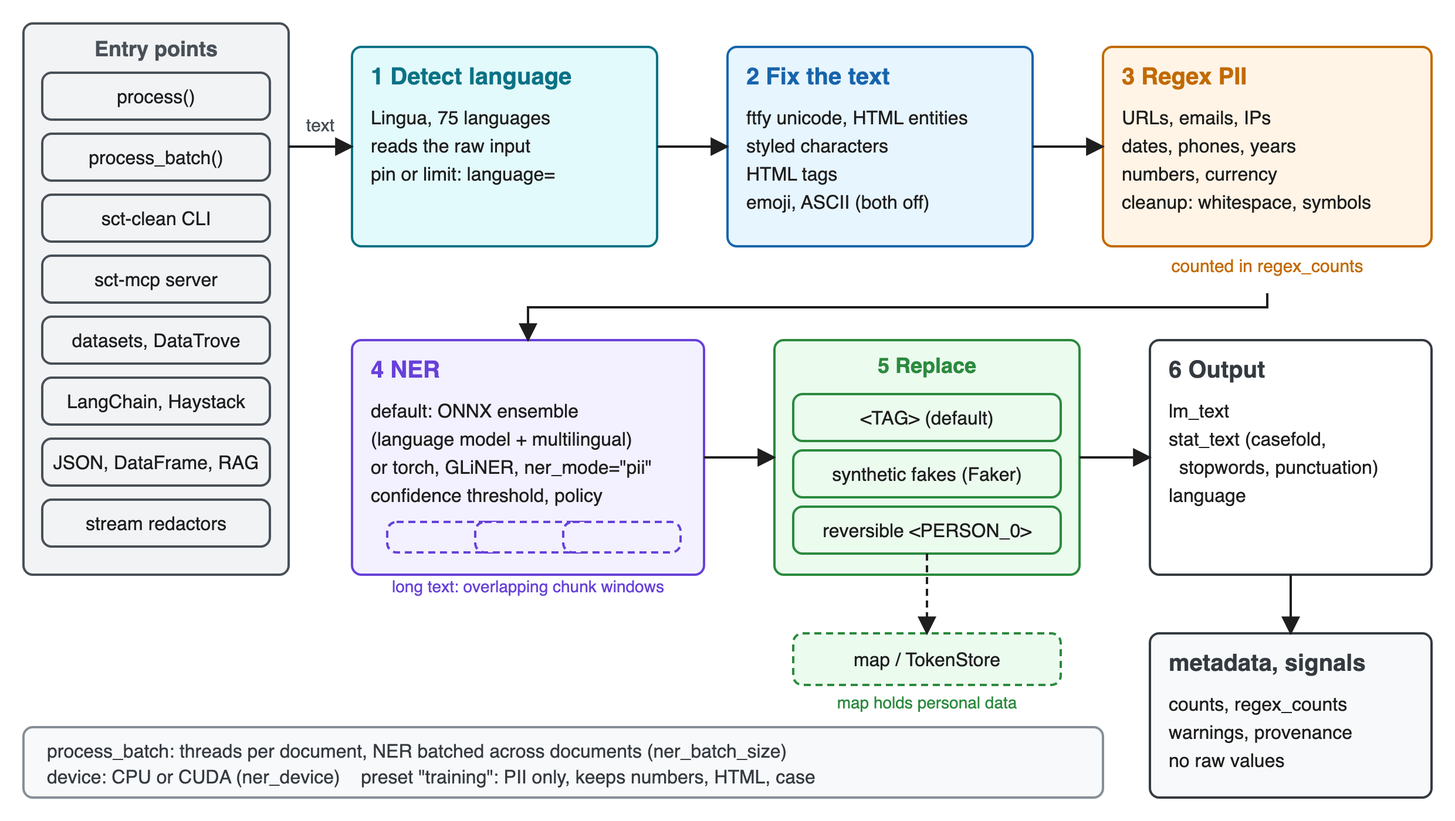
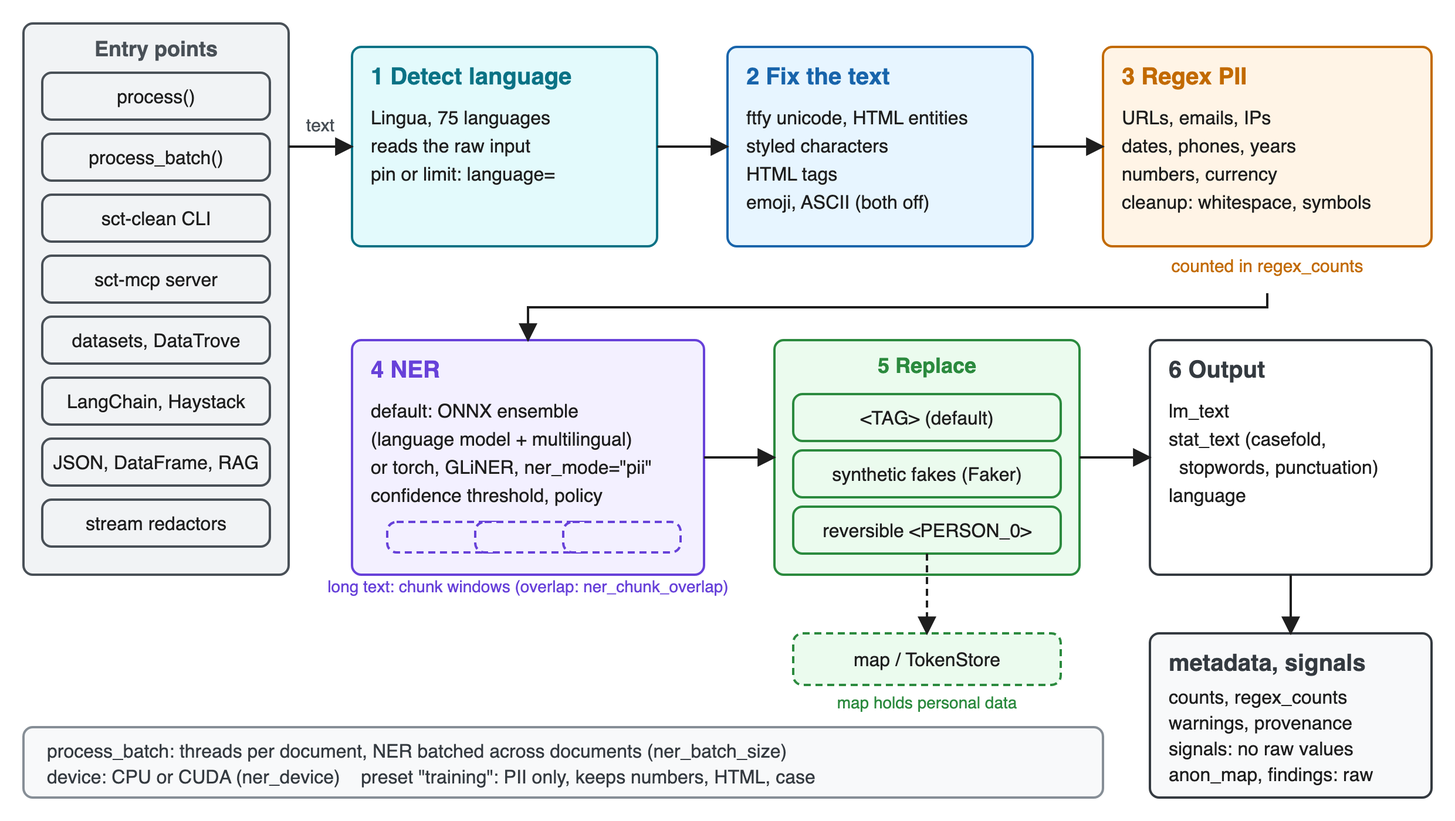
Fix README and docs claims from review round 1: metadata raw values, gliner_model in recipe, full ner_models dicts, custom step order, dead stopword toggle, language None, currency codes, chunk overlap, model loading, GLiNER2 attribution, PII model architecture, date limits, URL and streaming limits

Changed region(s): [[0.8073, 0.8293, 0.9315, 0.9521], [0.2173, 0.7064, 0.4968, 0.7371]]

diff --git a/sct/sct.py b/sct/sct.py
@@ -262,7 +262,7 @@ class TextCleaner:
         # Deferred values stay hidden through the cleanup above, so a tag it would remove
         # ("[EMAIL]" under bracket removal) still carries its value to the swap after NER.
         self._post_fuzzy_pipeline.append(self._restore_deferred)
-        # User-provided custom steps — appended after all built-in steps
+        # User-provided custom steps: after the built-in pre-NER steps, before NER and _after_ner
         for step_fn in cfg.custom_pipeline_steps:
             self._post_fuzzy_pipeline.append(step_fn)
 

diff --git a/sct/config.py b/sct/config.py
@@ -285,7 +285,7 @@ class TextCleanerConfig:
     gliclass_onnx: bool = False
 
     # Plugin: user-provided pipeline steps, each callable (text: str) -> str.
-    # Appended after all built-in steps in _init_pipeline().
+    # Appended to the pre-NER pipeline in _init_pipeline(), so they run before NER.
     custom_pipeline_steps: Tuple = ()
 
     # Language extensibility — extend Lingua detection, stopwords, dates, NER

diff --git a/docs/ADDING_LANGUAGES.md b/docs/ADDING_LANGUAGES.md
@@ -19,7 +19,7 @@ Each subsystem can be extended independently. A language doesn't need support in
 
 - **PII mode** (`ner_mode='pii'`) applies to all supported languages — PII labels are language-agnostic
 - **Replacement modes** (`replacement_mode='placeholder'|'synthetic'|'reversible'`) work for all languages
-- **ModernBERT** is available as an alternative English-only backend with 8192-token context (vs 512 for XLM-RoBERTa). Set via `ner_models={'ENGLISH': 'rhnfzl/modernbert-base-ner-conll03-english-onnx'}` once exported
+- **ModernBERT** is available as an alternative English-only backend with 8192-token context (vs 512 for XLM-RoBERTa). Set via `ner_models={**DEFAULT_NER_MODELS, 'ENGLISH': 'rhnfzl/modernbert-base-ner-conll03-english-onnx'}` once exported (the dict must name `ENGLISH` and `MULTILINGUAL`)
 - **GLiClass** document classification is language-independent (zero-shot, works with any input language)
 
 ---
@@ -93,7 +93,7 @@ result = cleaner.process("Spotkanie z Janem Kowalskim 15 styczen 2025 w Warszawi
 
 ### What each field does
 
-**`extra_languages`**: Tuple of language identifiers (e.g. `'POLISH'`, `'pl'`, `'pol'`). Accepts Lingua names, ISO 639-1, or ISO 639-3 codes. This extends the Lingua detector to consider these languages during auto-detection.
+**`extra_languages`**: Tuple of language identifiers (e.g. `'POLISH'`, `'pl'`, `'pol'`). Accepts Lingua names, ISO 639-1, or ISO 639-3 codes. They join `supported_languages`, which sets the stopword lists loaded up front and the languages `warmup()` loads. With the default `detect_all_languages=True`, Lingua already considers all 75 languages, so the detector does not change. Only with `detect_all_languages=False` does `extra_languages` add these languages to the detector.
 
 **`custom_stopwords`**: Dict mapping language name to frozenset of stopwords. If provided for a language, **replaces** (not merges with) any auto-detected stopwords. If not provided, the `stop-words` package is queried using the language's ISO 639-1 code.
 
@@ -152,10 +152,10 @@ There are two tiers of built-in support:
 
 | Tier | What it means | Steps required |
 |------|--------------|----------------|
-| **Opt-in** | Users enable via `extra_languages=('FRENCH',)` | Steps 1, 3 (NER only), 7 |
-| **Full default** | Language auto-detected for all users by default | Steps 1, 2, 3, 7 |
+| **Opt-in** | Detected by default (all 75 Lingua languages); users add it to the `detect_all_languages=False` detector via `extra_languages=('FRENCH',)` | Steps 1, 3 (NER only), 7 |
+| **Full default** | In `DEFAULT_LANGUAGES`, so also in the `detect_all_languages=False` detector | Steps 1, 2, 3, 7 |
 
-**FR/PT/IT were added as opt-in (v0.5.0)**: users set `extra_languages=('FRENCH',)` etc. — no changes to `resources.py` `DEFAULT_LANGUAGES` required. `build_detector()` is already fully dynamic and handles any Lingua language name.
+With the default `detect_all_languages=True`, every Lingua language is detected, so FR/PT/IT and Polish need no setting. The tiers only differ when a user sets `detect_all_languages=False`: then only `supported_languages` are detected, and an opt-in language needs `extra_languages=('FRENCH',)`. `build_detector()` handles any Lingua language name.
 
 To permanently add a new language (e.g. French) to the package defaults, follow these steps in dependency order.
 
@@ -210,7 +210,7 @@ The module-level `DATE_REGEX`, `FUZZY_MONTH_VOCABULARY`, and `FUZZY_MONTH_VOCABU
 
 ### Step 2: `sct/utils/resources.py` — Update default languages (full-default tier only)
 
-> **Skip this step for opt-in languages** — `build_detector()` dynamically handles any language in `supported_languages`. Only needed to add the language to the *automatic* detection set for all users.
+> **Skip this step for opt-in languages** — `build_detector()` dynamically handles any language in `supported_languages`. Only needed to add the language to the detector used with `detect_all_languages=False`; the default detector already covers all 75 Lingua languages.
 
 Add the language to `LANGUAGES` (module-level Lingua preset) and `DEFAULT_LANGUAGES`:
 
@@ -429,7 +429,7 @@ The ONNX pipeline (`sct/utils/onnx_pipeline.py`) handles download, caching, and 
 
 ## Language Support Matrix
 
-Current built-in support (v0.5.0+):
+Current built-in support (0.8.0). "Yes (auto)" means detected with the default `detect_all_languages=True`; the last column is only needed with `detect_all_languages=False`:
 
 | Language | Lingua (default) | Stopwords | Date Regex | Fuzzy Dates | NER Model | Opt-in via |
 |----------|-----------------|-----------|------------|-------------|-----------|------------|
@@ -437,29 +437,29 @@ Current built-in support (v0.5.0+):
 | Dutch | Yes (auto) | Yes | Yes | Yes | `rhnfzl/xlm-roberta-large-conll02-dutch-onnx` | — |
 | German | Yes (auto) | Yes | Yes | Yes | `rhnfzl/xlm-roberta-large-conll03-german-onnx` | — |
 | Spanish | Yes (auto) | Yes | Yes | Yes | `rhnfzl/xlm-roberta-large-conll02-spanish-onnx` | — |
-| French | No | Yes (stop-words) | Yes | Yes | `rhnfzl/wikineural-multilingual-ner-onnx` (multilingual) | `extra_languages=('FRENCH',)` |
-| Portuguese | No | Yes (stop-words) | Yes | Yes | `rhnfzl/wikineural-multilingual-ner-onnx` (multilingual) | `extra_languages=('PORTUGUESE',)` |
-| Italian | No | Yes (stop-words) | Yes | Yes | `rhnfzl/wikineural-multilingual-ner-onnx` (multilingual) | `extra_languages=('ITALIAN',)` |
+| French | Yes (auto) | Yes (stop-words) | Yes | Yes | `rhnfzl/wikineural-multilingual-ner-onnx` (multilingual) | `extra_languages=('FRENCH',)` |
+| Portuguese | Yes (auto) | Yes (stop-words) | Yes | Yes | `rhnfzl/wikineural-multilingual-ner-onnx` (multilingual) | `extra_languages=('PORTUGUESE',)` |
+| Italian | Yes (auto) | Yes (stop-words) | Yes | Yes | `rhnfzl/wikineural-multilingual-ner-onnx` (multilingual) | `extra_languages=('ITALIAN',)` |
 
 User-extensible via `TextCleanerConfig` (no source changes needed):
 
 | Feature | How to enable | Auto-detected? |
 |---------|--------------|----------------|
-| Lingua detection | `extra_languages=('POLISH',)` | N/A |
+| Lingua detection | Default (all 75 languages); with `detect_all_languages=False`, `extra_languages=('POLISH',)` | Yes |
 | Stopwords | Auto from `stop-words` pkg | Yes (33 languages) |
 | Custom stopwords | `custom_stopwords={'POLISH': frozenset({...})}` | No |
 | Date regex | `custom_month_names={'POLISH': (...)}` | No |
-| NER model | `ner_models={'POLISH': 'model-id'}` | Falls back to MULTILINGUAL |
+| NER model | `ner_models={**DEFAULT_NER_MODELS, 'POLISH': 'model-id'}` | Falls back to MULTILINGUAL |
 
 ### Languages supported by the `stop-words` package
 
-Arabic, Bulgarian, Catalan, Czech, Danish, Dutch, English, Finnish, French, German, Greek, Hindi, Hungarian, Indonesian, Irish, Italian, Japanese, Korean, Lithuanian, Latvian, Norwegian, Persian, Polish, Portuguese, Romanian, Russian, Slovak, Slovenian, Spanish, Swedish, Thai, Turkish, Ukrainian.
+Arabic, Bulgarian, Catalan, Chinese, Czech, Danish, Dutch, English, Finnish, French, German, Greek, Gujarati, Hebrew, Hindi, Hungarian, Indonesian, Italian, Japanese, Korean, Malay, Norwegian, Persian, Polish, Portuguese, Romanian, Russian, Slovak, Spanish, Swedish, Turkish, Ukrainian, Vietnamese (33, from the package's `languages.json`).
 
 ---
 
 ## Checklist for Adding a New Built-In Language
 
-### Opt-in tier (users activate via `extra_languages`)
+### Opt-in tier (auto-detected by default; `extra_languages` only for `detect_all_languages=False`)
 - [ ] Add month names to `MONTH_NAMES_MULTILINGUAL` in `constants.py` (check for shared names!)
 - [ ] Add ISO code to `_LANG_TO_VOCAB` in `constants.py`
 - [ ] Add to `DEFAULT_NER_MODELS` (dedicated ONNX model or MULTILINGUAL fallback) in `config.py`
@@ -473,9 +473,9 @@ Arabic, Bulgarian, Catalan, Czech, Danish, Dutch, English, Finnish, French, Germ
 - [ ] (Optional) Add NER tests if dedicated model added
 - [ ] Verify: `ruff check sct/ tests/` clean
 - [ ] Verify: `pytest tests/ -v` all pass
-- [ ] Bump version in `pyproject.toml`
+- [ ] Bump `__version__` in `sct/__init__.py` (`pyproject.toml` reads it)
 
-### Full-default tier (language auto-detected for all users)
+### Full-default tier (also in the `detect_all_languages=False` detector)
 All of the above, plus:
 - [ ] Add `Language.XXX` to `LANGUAGES` list in `resources.py`
 - [ ] Add to `DEFAULT_LANGUAGES` in both `resources.py` and `config.py`

diff --git a/README.md b/README.md
@@ -79,10 +79,10 @@ For more PII types (IDs, bank numbers, health data and more), use the GLiNER PII
 
 1. **Detect language.** Lingua reads the raw input and picks one of 75 languages. Pin it with `language="de"` or limit it with `language=("en", "nl")`.
 2. **Fix the text.** ftfy repairs broken unicode and HTML entities, styled characters such as `𝐣𝐨𝐡𝐧` are folded, and HTML tags are replaced. Emoji removal and ASCII folding are off by default.
-3. **Regex PII.** URLs, emails, IPs, dates, phones, years, numbers and currency symbols become tags, then isolated letters and symbols, bracket content and extra whitespace are cleaned up. Each type is counted.
-4. **NER.** By default an ensemble of ONNX models per language finds persons, locations, organisations and misc entities. Long texts are cut into chunk windows. You can switch to PyTorch, GLiNER or the GLiNER PII mode, and apply a privacy policy.
+3. **Regex PII.** URLs, emails, IPs, dates, phones, years and numbers become tags. Currency symbols become ISO codes by default (`€100` becomes `EUR<NUMBER>`); set `replace_with_currency_symbols="<CURRENCY>"` to get a tag. Then isolated letters and symbols, bracket content and extra whitespace are cleaned up. Each type is counted.
+4. **NER.** By default an ensemble of ONNX models per language finds persons, locations, organisations and misc entities. Long texts are cut into chunk windows (no overlap unless you set `ner_chunk_overlap`). You can switch to PyTorch, GLiNER or the GLiNER PII mode, and apply a privacy policy.
 5. **Replace.** Found values become `<TAG>`s (default), fake values (`synthetic`) or indexed placeholders such as `<PERSON_0>` with a map to restore them (`reversible`).
-6. **Output.** `lm_text`, `stat_text` and `language`, plus `metadata` and `signals` that hold counts, warnings and model provenance, never the raw values.
+6. **Output.** `lm_text`, `stat_text` and `language`, plus `metadata` and `signals`. `signals` holds counts, warnings and model ids, never raw values. `metadata` holds the same counts, and it can hold raw values: the reversible map (`anon_map`, unless you pass a `TokenStore`) and `findings` with entity text (with `include_entities=True` or a privacy policy).
 
 <picture>
   <source srcset="resources/sct_flow.svg" type="image/svg+xml">
@@ -93,7 +93,7 @@ For more PII types (IDs, bank numbers, health data and more), use the GLiNER PII
 <summary>The diagram as text</summary>
 
 - Entry points: `process()`, `process_batch()`, the `sct-clean` CLI, the `sct-mcp` server, the Hugging Face `datasets`, DataTrove, LangChain and Haystack adapters, the JSON, DataFrame and RAG adapters, and the streaming redactors. All of them pass text to the same pipeline.
-- 1 Detect language (Lingua, 75 languages, on the raw input) -> 2 Fix the text -> 3 Regex PII (counted in `regex_counts`) -> 4 NER (overlapping chunk windows for long text) -> 5 Replace (`<TAG>`, synthetic fakes, or reversible `<PERSON_0>` with a map kept in a `TokenStore`) -> 6 Output (`lm_text`, `stat_text`, `language`) and `metadata` / `signals` (no raw values).
+- 1 Detect language (Lingua, 75 languages, on the raw input) -> 2 Fix the text -> 3 Regex PII (counted in `regex_counts`) -> 4 NER (chunk windows for long text, overlap only with `ner_chunk_overlap`) -> 5 Replace (`<TAG>`, synthetic fakes, or reversible `<PERSON_0>` with a map in `metadata` or a `TokenStore`) -> 6 Output (`lm_text`, `stat_text`, `language`) and `metadata` / `signals` (`signals` has no raw values; `metadata` can hold the reversible map and `findings`).
 - Across all stages: `process_batch` runs documents in threads and batches NER across them (`ner_batch_size`); NER runs on CPU or CUDA (`ner_device`); the `training` preset turns stages on and off.
 
 </details>
@@ -157,7 +157,7 @@ print(TextCleaner(privacy_policy=policy).process("Maria Chen from Acme Corp wrot
 
 **GPU.** Install the `gpu` extra and set `TextCleanerConfig(ner_device="cuda", cuda_device_id=0)`. If CUDA cannot load, NER runs on CPU and each result gets the `cuda_fallback` warning ([docs/PERFORMANCE.md](docs/PERFORMANCE.md)).
 
-**Your own entity labels.** With the `gliner` extra, set `ner_backend="gliner"` and `gliner_labels=("person", "product", "event")`; unmapped labels become tags such as `<PRODUCT>` ([docs/NER_BACKENDS.md](docs/NER_BACKENDS.md)).
+**Your own entity labels.** With the `gliner` extra, set `ner_backend="gliner"`, `gliner_model="urchade/gliner_multi-v2.1"` and `gliner_labels=("person", "product", "event")`; unmapped labels become tags such as `<PRODUCT>` ([docs/NER_BACKENDS.md](docs/NER_BACKENDS.md)).
 
 ## Use it in your stack
 
@@ -210,18 +210,18 @@ Language detection covers 75 languages. Full NER models cover 4 (English, Dutch,
 <details>
 <summary>Known limits of 0.8.0 (details in <a href="CHANGELOG.md">CHANGELOG.md</a>)</summary>
 
-- Dates: only full dates. `1990年1月`, `1月15日`, Japanese era years and `1990.1.15.` stay; `生日1990.1.15谢谢` becomes `<YEAR><NUMBER>.15`; Thai month names need `custom_month_names`.
+- Dates: only full dates become one `<DATE>`. `1990年1月`, `1月15日`, Japanese era years and `1990.1.15.` do not; the year and number steps still change them (`1990年1月` becomes `<YEAR>年<NUMBER>月`, `生日1990.1.15谢谢` becomes `<YEAR><NUMBER>.15`). A circled number glued to a unit character (`1月⑮日`) stays a list marker. Thai month names need `custom_month_names`.
 - In ensembles with GLiNER, windows are sized for the token-classification models, not for GLiNER's own word limit. GLiNER2 runs one chunk per call; torch models and GLiNER keep one lock per model, so they do not run in parallel across threads.
 - Only `process_batch` is faster; `process` of one document is not batched across documents.
 - `ner_chunk_overlap` (off by default) can still cut an entity longer than the overlap that starts at the very end of a chunk.
 - `06-12345678` becomes `06-<PHONE>`. Adversarial strings such as `+000000000(000)0` can leave `(000)0` after phone replacement.
 - Two addresses glued with no separator in a script written without spaces can be read as one address or split at the wrong place.
 - ORGANISATION is the weakest NER label (0.75 recall in the multilingual eval); Bengali and Tamil name spans can be a few characters off.
-- A URL with a path swallows a trailing sentence period (`see https://x.org/a.` becomes `see <URL>`). Rare styled URL hosts and mail addresses (`https://ab｡⑧․cd.ex.com/...`, `INFO@COL·LEGI。CAT`) are not fully replaced.
+- A URL with a path swallows a trailing sentence period (`see https://x.org/a.` becomes `see <URL>`). A URL path that switches from Latin letters or digits straight into a script written without spaces is replaced only up to the switch (`https://x.org/a東京secret` becomes `<URL>東京secret`). Rare styled URL hosts and mail addresses (`https://ab｡⑧․cd.ex.com/...`, `INFO@COL·LEGI。CAT`) are not fully replaced.
 - Score B's quality head was tested with a small ONNX graph only; GLiNER PII mode was not run end to end for this release. CI does not install the `mcp` extra; FastMCP-only tests skip there.
 - An unpinned NER model makes one Hub request per worker when the parent never loaded it before forking; pin `ner_model_revisions` or set `HF_HUB_OFFLINE=1`.
 - With an empty regex marker (`replace_with_email=""`), NER in synthetic or reversible mode can find other entities than in placeholder mode.
-- `WindowedStreamingRedactor` can cut an HTML tag that holds a space when the tag reaches past `overlap_chars`.
+- `WindowedStreamingRedactor` can cut an HTML tag that holds a space when the tag reaches past `overlap_chars`. It raises `BufferError` when the buffer passes `max_buffer_chars` (default 4096) with no safe whitespace split; raise the limit or use `BufferedStreamingRedactor`.
 
 </details>
 

diff --git a/docs/CONFIG.md b/docs/CONFIG.md
@@ -96,7 +96,7 @@ new_cfg = dataclasses.replace(cfg, check_ner_process=False)
 | `check_replace_ips` | `True` | Replace IPv4/IPv6 addresses (runs before dates, phones, years) |
 | `replace_ips_public_only` | `False` | Keep private, loopback and reserved IPs; replace only public ones |
 | `check_replace_years` | `True` | Replace years (1900-2099) |
-| `check_replace_dates` | `True` | Replace full dates and date-times with one `<DATE>` (ISO 8601, numeric with `-` `/` `.` in digits of any script and any 4-digit year, so Buddhist-era `15/01/2533` too, month names, CJK/Korean unit dates `1990年1月15日` `1990년 1월 15일`, Korean `1990. 1. 15.`, Han-numeral `一九九〇年一月十五日` read by Unicode numeric value); runs before phones, years and numbers. A date ends where no digit or Latin/Greek/Cyrillic letter touches it, so one glued to Thai or CJK text is found (`生日是15 January 1990谢谢`). Only full dates: `1990年1月`, `1月15日`, Japanese era years (`令和6年1月15日`), `1990.1.15.` (CalVer-shaped) and month names outside the 7 built-in languages (add them with `custom_month_names`) stay. `False`: digits fall to the year and number steps |
+| `check_replace_dates` | `True` | Replace full dates and date-times with one `<DATE>` (ISO 8601, numeric with `-` `/` `.` in digits of any script and any 4-digit year, so Buddhist-era `15/01/2533` too, month names, CJK/Korean unit dates `1990年1月15日` `1990년 1월 15일`, Korean `1990. 1. 15.`, Han-numeral `一九九〇年一月十五日` read by Unicode numeric value); runs before phones, years and numbers. A date ends where no digit or Latin/Greek/Cyrillic letter touches it, so one glued to Thai or CJK text is found (`生日是15 January 1990谢谢`). Only full dates become one `<DATE>`: `1990年1月`, `1月15日`, Japanese era years (`令和6年1月15日`), `1990.1.15.` (CalVer-shaped) and month names outside the 7 built-in languages (add them with `custom_month_names`) do not, and the year and number steps can still change them (`1990年1月` becomes `<YEAR>年<NUMBER>月`). `False`: digits fall to the year and number steps |
 | `check_fuzzy_replace_dates` | `False` | Fuzzy match misspelled months (requires `[fuzzy]`) |
 | `check_replace_phone_numbers` | `True` | Replace phone numbers |
 | `check_replace_numbers` | `True` | Replace standalone numbers |
@@ -113,7 +113,7 @@ new_cfg = dataclasses.replace(cfg, check_ner_process=False)
 | `check_smart_casefold` | `False` | Lowercase but preserve NER tokens |
 | `check_remove_stopwords` | `True` | Remove stopwords from stat output |
 | `check_remove_punctuation` | `True` | Remove punctuation from stat output |
-| `check_remove_stext_custom_stop_words` | `True` | Remove custom stop words from stat output |
+| `check_remove_stext_custom_stop_words` | `True` | Not used: no step reads it. `custom_stopwords` sets are removed whenever `check_remove_stopwords` is on |
 | `check_remove_emoji` | `False` | Remove emoji characters |
 
 **Replacement tokens** (all `str`):
@@ -138,6 +138,8 @@ new_cfg = dataclasses.replace(cfg, check_ner_process=False)
 |-------|---------|-------------|
 | `ner_backend` | `'onnx'` | Backend: `onnx`, `torch`, `gliner`, `ensemble_onnx`, `ensemble_torch`, `presidio_gliner` |
 | `ner_mode` | `'standard'` | `'standard'` or `'pii'` (auto-configures GLiNER for PII detection) |
+| `gliner_onnx` | `False` | Load the GLiNER model from its pre-built ONNX weights on the Hub (uni-encoder models only). PII mode sets it when `ner_backend` is `'onnx'` |
+| `gliclass_onnx` | `False` | Must stay `False`: the gliclass package has no ONNX loader, so `True` raises `ValueError` |
 | `replacement_mode` | `'placeholder'` | `'placeholder'`, `'synthetic'` (Faker), or `'reversible'` (indexed placeholders + deanonymize map) |
 | `synthetic_seed` | `42` | Base seed for `replacement_mode='synthetic'` |
 | `synthetic_per_document` | `True` | Seed each document's fakes from `synthetic_seed` + its text: fakes differ across documents, the same document always gets the same fakes (any worker count or order). `False` = 0.7: one Faker stream per thread, so batched documents could all get the same first fake |
@@ -165,7 +167,7 @@ new_cfg = dataclasses.replace(cfg, check_ner_process=False)
 | `gliner_label_descriptions` | `None` | ZERONER-style: `{label: "description"}` for improved zero-shot accuracy |
 | `json_key_cleaning` | `'pii'` | How `process_json` (and `sct-clean --json-input`, MCP `clean_json`, RAG chunk metadata) cleans dict keys: `'pii'` = regex PII steps only (no NER: models tag lone words such as `message` out of context), `'pii_ner'` = PII steps plus NER, `'full'` = the whole config (0.7), `'off'` = keys as written (can carry PII) |
 | `fuzzy_date_score_cutoff` | `85` | Fuzzy matching threshold (0-100) for misspelled months |
-| `custom_pipeline_steps` | `()` | Tuple of `(text: str) -> str` callables appended after all built-in steps |
+| `custom_pipeline_steps` | `()` | Tuple of `(text: str) -> str` callables. They run after the built-in fixes, regex replacements and cleanup, and before NER and the `stat_text` steps, so they never see NER tags |
 
 **Language settings**:
 

diff --git a/docs/NER_BACKENDS.md b/docs/NER_BACKENDS.md
@@ -9,8 +9,10 @@
   German and Spanish run their own model plus the English and multilingual models. Every
   other language runs the multilingual and English models (`ner_ensemble_default_keys`)
   and gets the `ner_fallback_models` warning, unless you bring a model for it with
-  `ner_models={"HINDI": "..."}`.
-- Models load lazily, per language, on first use. `warmup()` loads them up front.
+  `ner_models`. That dict must name `ENGLISH` and `MULTILINGUAL` too, so start from the
+  defaults: `ner_models={**DEFAULT_NER_MODELS, "HINDI": "..."}` (`from sct.config import DEFAULT_NER_MODELS`).
+- The English and multilingual models load when `TextCleaner` is built. Other language models
+  load on first use. `warmup()` loads them up front.
 - Languages that point at the same model share one ONNX session (French, Portuguese
   and Italian use the multilingual model, which saves about 600 MB of RAM).
 - Long documents are cut into token-bounded chunks (CJK and Arabic safe);
@@ -49,11 +51,11 @@ SqueakyCleanText supports six NER backends, selectable via the `ner_backend` con
 | Model | Architecture | Context | Languages | Best for |
 |-------|-------------|---------|-----------|----------|
 | `knowledgator/gliner-bi-base-v2.0` | Bi-encoder (ModernBERT) | 2048 | Multi | General NER, long documents |
-| `knowledgator/gliner-pii-base-v1.0` | Bi-encoder | 2048 | Multi | PII detection (60+ entity types) |
+| `knowledgator/gliner-pii-base-v1.0` | Uni-encoder (DeBERTa) | 2048 | Multi | PII detection (60+ entity types) |
 | `urchade/gliner_large-v2.1` | Uni-encoder (DeBERTa) | 512 | Multi | Legacy, high accuracy on short texts |
 | `MatteoFasulo/ModernBERT-base-NER` | ModernBERT | 8192 | English | English-only, very long context |
 
-> **GLiNER2 note**: `pip install squeakycleantext[gliner2]` installs [Knowledgator's gliner2 package](https://github.com/Knowledgator/GLiNER), not Fastino AI's GLiNER2 from EMNLP 2025 (different API).
+> **GLiNER2 note**: `pip install squeakycleantext[gliner2]` installs the PyPI `gliner2` package, [Fastino AI's GLiNER2](https://github.com/fastino-ai/GLiNER2). Its API differs from Knowledgator's `gliner` package; SCT wraps both. GLiNER2 has no ONNX loader and always runs in torch.
 
 ## GLiNER Label Mapping
 
@@ -129,6 +131,8 @@ lm_text, stat_text, lang = cleaner.process(
 ```
 
 PII mode auto-configures: `ner_backend='gliner'`, uses [`knowledgator/gliner-pii-base-v1.0`](https://huggingface.co/knowledgator/gliner-pii-base-v1.0), uses `gliner_threshold` 0.3 and the same final `ner_confidence_threshold` (recall-focused), and expands positional tags. Both thresholds default to `None` ("not set"); any value you pass, even 0.85 or 0.4, is used as given. `cfg.effective_ner_confidence_threshold` and `cfg.effective_gliner_threshold` give the values that run.
+
+`gliner_onnx=True` loads a GLiNER model from its pre-built ONNX weights on the Hub. It works only with uni-encoder models. PII mode sets it for you when `ner_backend` is left at `'onnx'`.
 
 **Alternative PII models** (pass as `gliner_model`):
 

diff --git a/docs/INSTALL.md b/docs/INSTALL.md
@@ -16,7 +16,7 @@ The base install uses **ONNX Runtime** for NER inference - no PyTorch or Transfo
 | Fuzzy dates | `pip install SqueakyCleanText[fuzzy]` | Fuzzy month name matching ([rapidfuzz](https://github.com/rapidfuzz/RapidFuzz)) |
 | PyTorch NER | `pip install SqueakyCleanText[torch]` | PyTorch/Transformers NER backend |
 | GLiNER | `pip install SqueakyCleanText[gliner]` | [GLiNER](https://github.com/urchade/GLiNER) zero-shot NER |
-| GLiNER2 | `pip install SqueakyCleanText[gliner2]` | [GLiNER2](https://github.com/Knowledgator/GLiNER) (knowledgator) backend |
+| GLiNER2 | `pip install SqueakyCleanText[gliner2]` | [GLiNER2](https://github.com/fastino-ai/GLiNER2) (Fastino AI) backend |
 | Synthetic | `pip install SqueakyCleanText[synthetic]` | Faker-based synthetic replacement (realistic fake values instead of `<TAG>` tokens) |
 | Presidio | `pip install SqueakyCleanText[presidio]` | Presidio-analyzer for `presidio_gliner` backend |
 | Classify | `pip install SqueakyCleanText[classify]` | GLiClass document-level pre-classification |

diff --git a/docs/API.md b/docs/API.md
@@ -10,7 +10,7 @@ Cleans one text. It runs `process_batch([text])` and returns its one result. A
 `ProcessResult` unpacks as a 3-tuple `(lm_text, stat_text, language)`:
   - Cleaned text formatted for language models.
   - Cleaned text formatted for statistical models (`None` if `check_statistical_model_processing` is `False`).
-  - Detected language of the text (`None` if language detection is disabled).
+  - Detected language of the text. `None` when it is unknown, or when no step needs it: `check_detect_language`, `check_ner_process` and `check_remove_stopwords` all `False` and no `language` set. NER and stopword removal run detection even with `check_detect_language=False`.
 
 ### `process_batch(texts: List[str], batch_size: Optional[int] = None) -> List[ProcessResult]`
 

diff --git a/docs/MULTILINGUAL_EVAL.md b/docs/MULTILINGUAL_EVAL.md
@@ -148,7 +148,8 @@ so is kept on by default):
 ## Recommendation
 
 Keep today's default ensemble: it wins overall (0.84 / 0.89 at `39a5ca3`, 0.93 / 0.95 in
-0.8.0) and in every language.
+0.8.0). It does not win every language: GLiNER multi PII v1 scores higher in Arabic (0.93 / 1.00
+against 0.82 / 0.88 in 0.8.0) and slightly higher in Dutch (0.95 / 0.93 against 0.93 / 0.93).
 GLiNER multi v2.1 is far behind outside Latin scripts. GLiNER multi PII v1 has the best
 EMAIL / PHONE precision and the best Arabic row, but recall in hi, bn, ta, ja, zh is
 0.07 to 0.35, so it is not a default candidate either. **The default NER model is NOT

diff --git a/docs/ADAPTERS.md b/docs/ADAPTERS.md
@@ -28,6 +28,8 @@ sct-mcp
 
 `BufferedStreamingRedactor` holds a full document for cross-chunk NER safety.
 `WindowedStreamingRedactor` provides bounded latency for contact tokens.
+When its buffer passes `max_buffer_chars` (default 4096) and has no safe whitespace split, it raises
+`BufferError`. Raise `max_buffer_chars` or use `BufferedStreamingRedactor` for such input.
 It never splits a window inside an email, phone, URL, IP (or a date or number when those steps are on): it reads the
 cleaner's own `TextCleaner.normalise` view of the buffer, so its split points follow every pre-regex step.
 

diff --git a/docs/REPLACEMENT_MODES.md b/docs/REPLACEMENT_MODES.md
@@ -63,3 +63,6 @@ result = cleaner.process("Dear Sir, please find attached the contract...")
 print(result.metadata['classes'])
 # [{"label": "email", "score": 0.92}, {"label": "legal", "score": 0.78}]
 ```
+
+GLiClass runs in torch only. The gliclass package has no ONNX loader, so `gliclass_onnx=True`
+raises `ValueError`. Configs from before 0.7 that set it must drop it.
